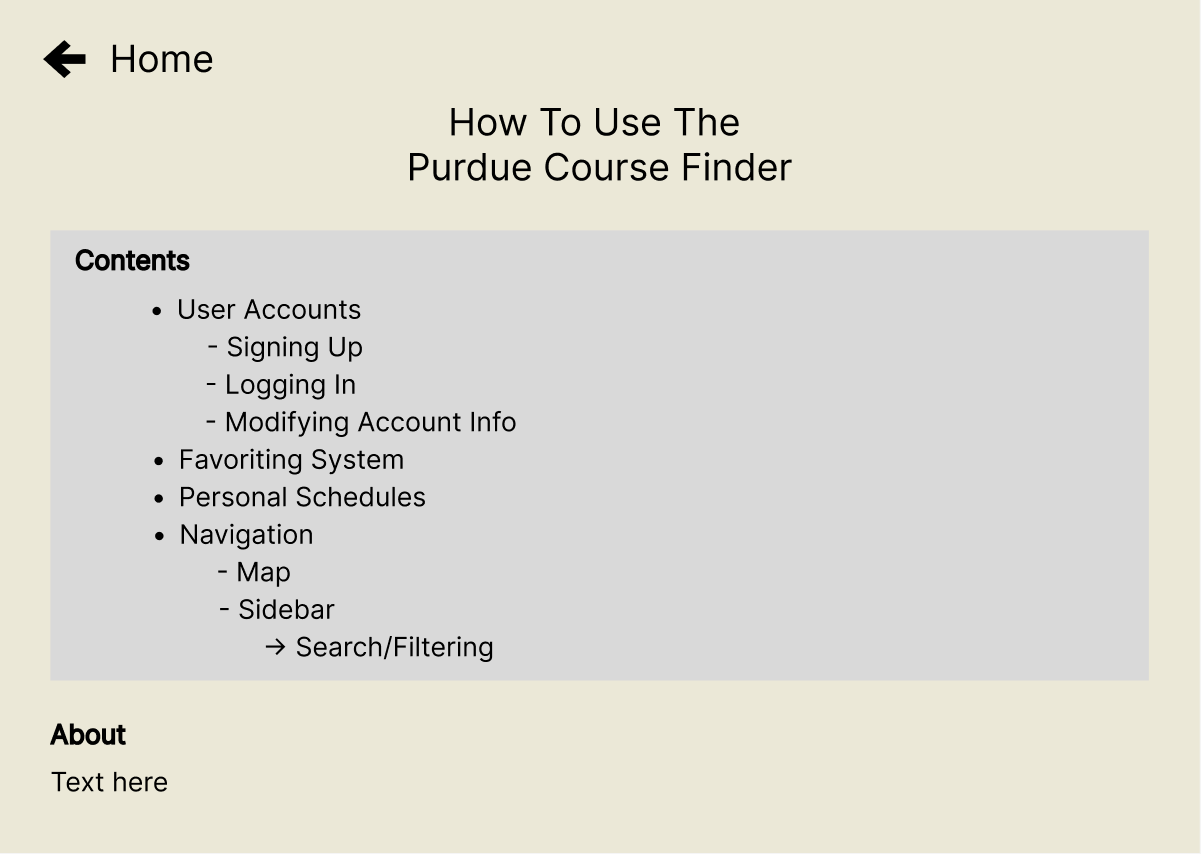
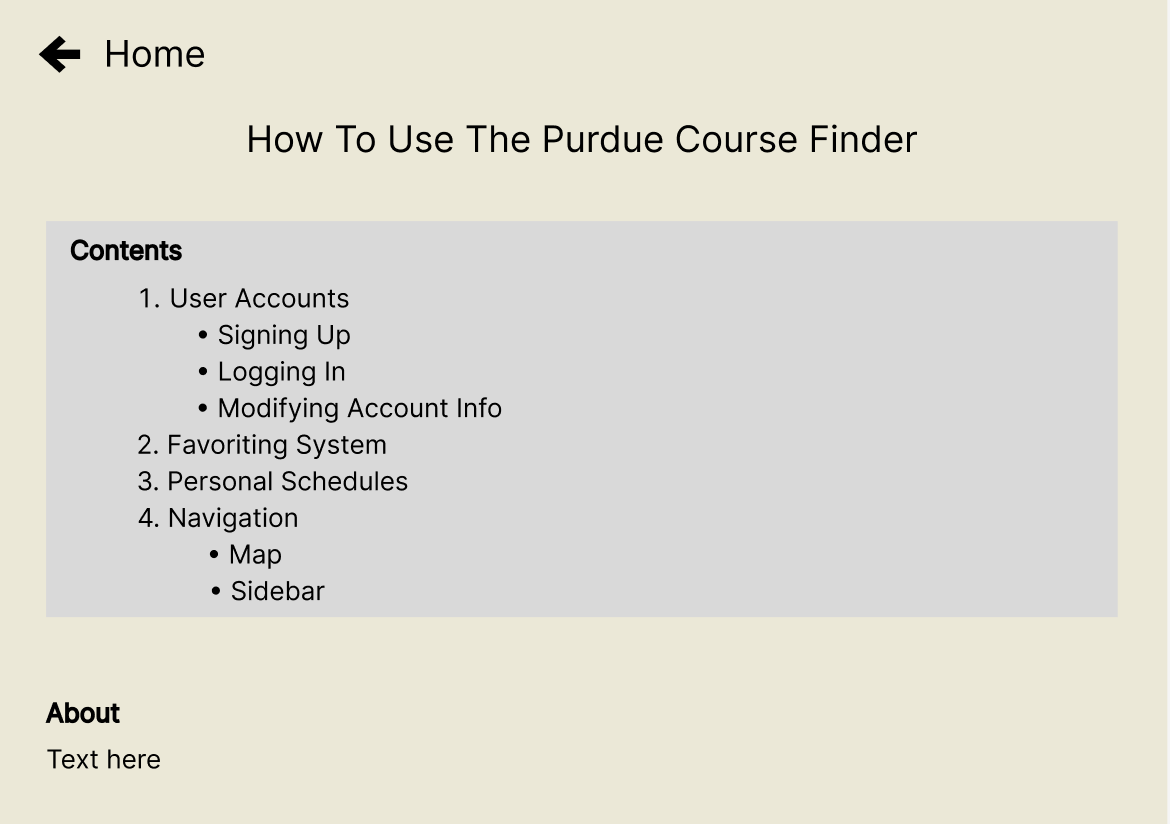
Built UI for tutorial page, slight modification to tutorial page design

diff --git a/frontend/purdue-course-finder/src/components/tutorialPage.js b/frontend/purdue-course-finder/src/components/tutorialPage.js
@@ -1,12 +1,114 @@
 import React from 'react';
-import {Button} from "react-bootstrap"
 import './tutorialPage.css'
 
 function tutorialPage() {
     return(
-        <div>
-            <h1>Tutorial Page</h1>
-            <a href='/'>Home</a>
+        <div className='tutorialPageContainer'>
+            <div className='returnHomeContainer'>
+                <a className='returnHome' href='/'>
+                    <svg xmlns="http://www.w3.org/2000/svg" width="25" height="25" fill="Black" class="bi bi-arrow-left" viewBox="0 0 20 6">
+                        <path fill-rule="evenodd" d="M15 8a.5.5 0 0 0-.5-.5H2.707l3.147-3.146a.5.5 0 1 0-.708-.708l-4 4a.5.5 0 0 0 0 .708l4 4a.5.5 0 0 0 .708-.708L2.707 8.5H14.5A.5.5 0 0 0 15 8z"></path>
+                    </svg>
+                    Home
+                </a>
+            </div>
+            <div className='mainContentContainer'>
+                <h1 align='center'>How To Use The Purdue Course Finder</h1>
+                <div className='contentsContainer'>
+                    <h2>Contents</h2>
+                    <ol className='contentsList'>
+                        <li>
+                            <a href='#User_Accounts'>User Accounts</a>
+                            <ul>
+                                <li>
+                                    <a href='#Signing_Up'>Signing Up</a>
+                                </li>
+                                <li>
+                                    <a href='#Logging_In'>Logging In</a>
+                                </li>
+                                <li>
+                                    <a href='#Modifying_Account_Info'>Modifying Account Info</a>
+                                </li>
+                            </ul>
+                        </li>
+                        <li>
+                            <a href='#Favoriting_System'>Favoriting System</a>
+                        </li>
+                        <li>
+                            <a href='#Personal_Shedules'>Personal Schedules</a>
+                        </li>
+                        <li>
+                            <a href='#Navigation'>Navigation</a>
+                            <ul>
+                                <li>
+                                    <a href='#Map'>Map</a>
+                                </li>
+                                <li>
+                                    <a href='#Sidebar'>Sidebar</a>
+                                </li>
+                            </ul>
+                        </li>
+                    </ol>
+                </div>
+                <div id='About'>
+                    <h2>About</h2>
+                    <p>
+                        Many students see their schedule at the beginning of the year and must go 
+                        searching for their classes. Making this process harder, Google Maps often 
+                        doesn’t recognize building acronyms, making it even more difficult to find 
+                        classroom locations. Our product will eliminate that issue by providing a map 
+                        of Purdue which outlines buildings, classrooms, the courses in those classrooms, 
+                        the time slots of those courses, and more. This map will also be searchable 
+                        using the names or acronyms of buildings, or by using course numbers or titles. 
+                        This will help students to find exactly where their classes are, find more 
+                        information about the classrooms and buildings, and see the locations of other 
+                        sections for their courses.
+                    </p>
+                    <p>
+                        Currently, the only method of looking up classes is going to the Purdue course 
+                        look-up page. Although this provides users with information about courses and 
+                        who teaches them, the location is an abstraction. For example, room BHEE 129 
+                        is a well-known room for many upperclassmen, but for new students, this might 
+                        be a challenge to navigate to. Our software provides a map and building layout 
+                        so students can visually see exactly where their classes are and don’t wander 
+                        around on the first few days of the semester.  
+                    </p>
+                </div>
+                <div id='User_Accounts'>
+                    <hr></hr>
+                    <h2>User Accounts</h2>
+                    <p>Text Here</p>
+                    <div className='subSection'>
+                        <h3 id='Signing_Up'>Signing Up</h3>
+                        <p>Text Here</p>
+                        <h3 id='Logging_In'>Logging In</h3>
+                        <p>Text Here</p>
+                        <h3 id='Modifying_Account_Info'>Modifying Account Info</h3>
+                        <p>Text Here</p>
+                    </div>
+                </div>
+                <div id='Favoriting_System'>
+                    <hr></hr>
+                    <h2>Favoriting System</h2>
+                    <p>Text Here</p>
+                </div>
+                <div id='Personal_Shedules'>
+                    <hr></hr>
+                    <h2>Personal Schedules</h2>
+                    <p>Text Here</p>
+                </div>
+                <div id='Navigation'>
+                    <hr></hr>
+                    <h2>Navigation</h2>
+                    <p>Text Here</p>
+                    <div className='subSection'>
+                        <h3 id='Map'>Map</h3>
+                        <p>Text Here</p>
+                        <h3 id='Sidebar'>Sidebar</h3>
+                        <p>Text Here</p>
+                    </div>    
+                </div>
+            </div>
         </div>
     );
 }

diff --git a/frontend/purdue-course-finder/src/components/tutorialPage.css b/frontend/purdue-course-finder/src/components/tutorialPage.css
@@ -1,1 +1,54 @@
-/*Tutorial CSS file*/
+html {
+    background-color: lightyellow;
+    scroll-behavior: smooth;
+}
+
+ul {
+    list-style-type: disc;
+}
+
+.tutorialPageContainer {
+    padding: 20px 2% 0 2%;
+    /*Top Right Bottom Left*/
+}
+
+.returnHome, returnHome:link, returnHome:visited, returnHome:hover, returnHome:active {
+    text-decoration: none; 
+    color: black;
+    font-size: 20px;
+}
+
+.mainContentContainer {
+    margin-top: 50px;
+}
+
+.contentsContainer {
+    background-color: lightgray;
+    padding: 0 10px 5px 10px;
+}
+
+.contentsList {
+    font-size: 20px
+}
+
+.contentsList a {
+    text-decoration: none;
+}
+
+.contentsList a:hover{
+    text-decoration: underline;
+    
+}
+
+.contentsList a:visited {
+    color: blue;
+}
+
+.subSection {
+    margin-left: 10px;
+}
+
+
+
+
+
